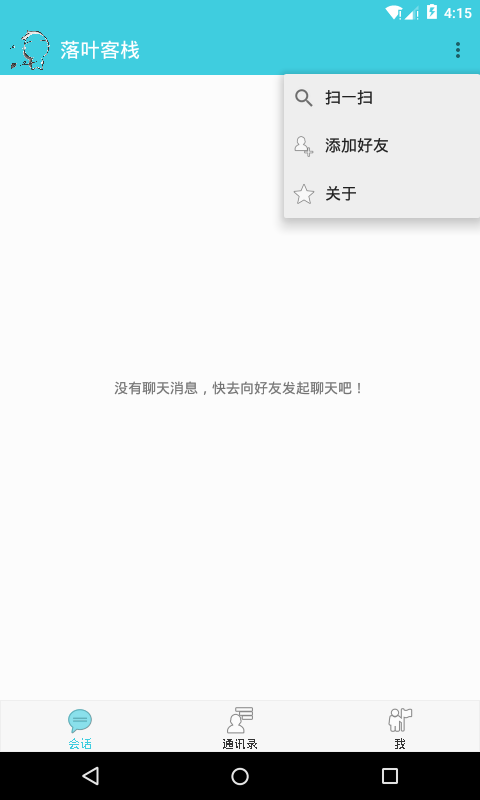
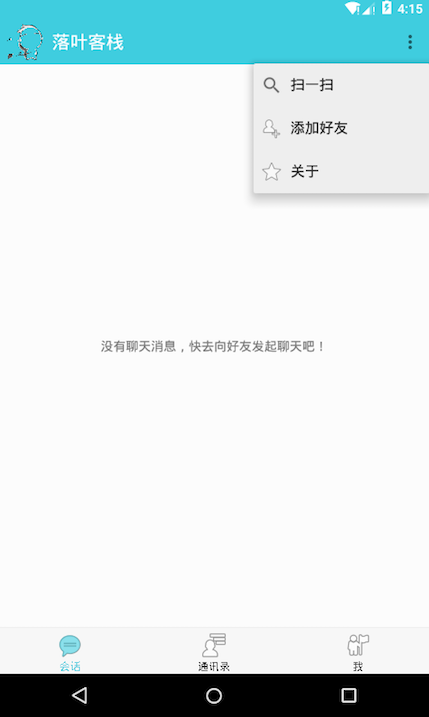
update redeme.md

diff --git a/README.md b/README.md
@@ -1,10 +1,10 @@
 A chat app
 =================================
 
-<img src='appinfo/device.png' width="70%"/>
-<img src='appinfo/device2.png' width="70%"/>
-<img src='appinfo/device3.png' width="70%"/>
-<img src='appinfo/device4.png' width="70%"/>
-<img src='appinfo/device5.png' width="70%"/>
-<img src='appinfo/device6.png' width="70%"/>
-<img src='appinfo/device7.png' width="70%"/>
+![thsi is image](appinfo/device.png)
+![thsi is image](appinfo/device2.png)
+![thsi is image](appinfo/device3.png)
+![thsi is image](appinfo/device4.png)
+![thsi is image](appinfo/device5.png)
+![thsi is image](appinfo/device6.png)
+![thsi is image](appinfo/device7.png)
